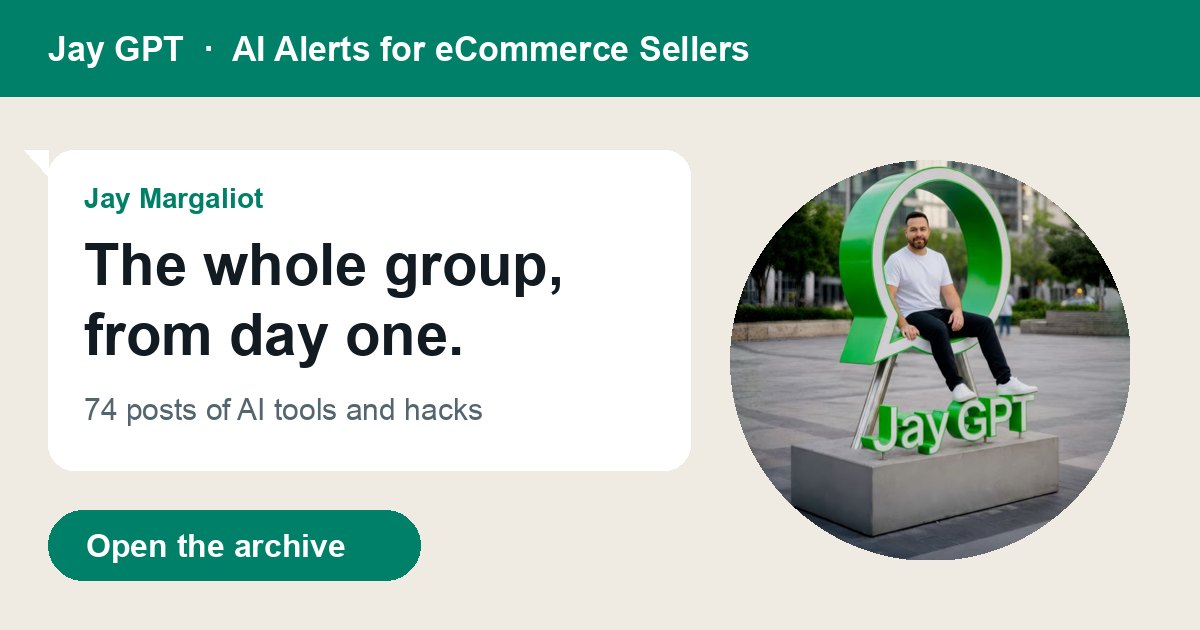
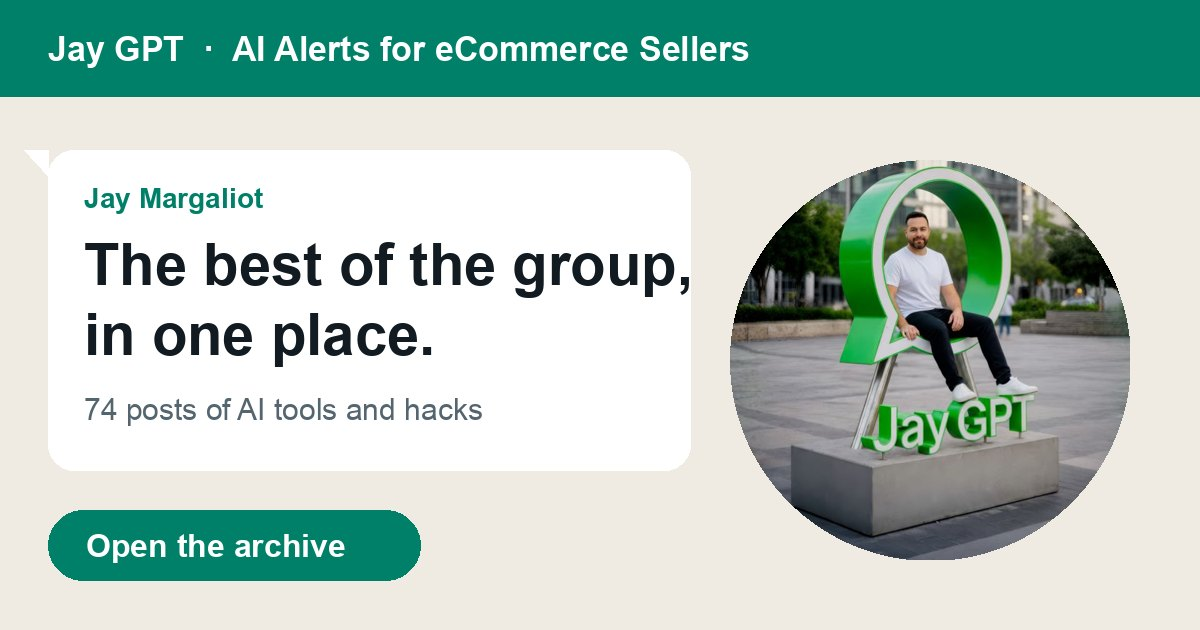
Archive: daily update from the Jay GPT #1 group

Changed region(s): [[0.1542, 0.3921, 0.5858, 0.4825], [0.0617, 0.4825, 0.4008, 0.6032]]

diff --git a/archive/index.html b/archive/index.html
@@ -7,10 +7,10 @@
 <meta name="theme-color" content="#008069" media="(prefers-color-scheme: light)">
 <meta name="theme-color" content="#202c33" media="(prefers-color-scheme: dark)">
 <title>Jay GPT Archive</title>
-<meta name="description" content="Every AI tool and hack shared in the Jay GPT groups, from day one.">
+<meta name="description" content="The best AI tools and hacks from the Jay GPT WhatsApp group, since January 2026.">
 <meta property="og:type" content="website">
-<meta property="og:title" content="Jay GPT · The whole group, from day one">
-<meta property="og:description" content="Every AI tool and hack shared in the Jay GPT WhatsApp groups. Search it, react, and join the group.">
+<meta property="og:title" content="Jay GPT · The best of the group, in one place">
+<meta property="og:description" content="The best AI tools and hacks from the Jay GPT WhatsApp group. Search it, react, and join the group.">
 <meta property="og:image" content="https://jaygptpro.com/archive/assets/og.jpg">
 <meta property="og:image:width" content="1200">
 <meta property="og:image:height" content="630">
@@ -120,8 +120,10 @@ main { max-width: 860px; margin: 0 auto; padding: 6px 12px 96px; }
 .system > div { background: var(--sys); color: var(--sys-ink); font-size: 12.8px; padding: 8px 14px; border-radius: 8px; box-shadow: var(--shadow); text-align: center; max-width: 540px; line-height: 1.45; }
 .unread { scroll-margin-top: calc(var(--bar-h, 150px) + 8px); display: flex; justify-content: center; margin: 14px -12px; background: rgb(0 0 0 / .05); padding: 6px 0; }
 .unread span { background: var(--unread); color: var(--name); font-size: 12.5px; font-weight: 600; padding: 5px 14px; border-radius: 999px; box-shadow: var(--shadow); text-transform: uppercase; }
-.msg { display: flex; align-items: flex-start; min-height: 72px; margin: 3px 0 2px; scroll-margin-top: 170px; }
-.msg.has-react { margin-bottom: 20px; }
+.msg { display: flex; margin: 3px 0 2px; scroll-margin-top: 170px; }
+.stack { display: flex; flex-direction: column; align-items: flex-end; max-width: min(560px, 88%); }
+.stack .bubble { max-width: 100%; }
+.msg.has-react .share-cta { margin-top: 22px; }
 .msg.is-hidden .bubble { opacity: .45; outline: 2px dashed #e34948; }
 .bubble { position: relative; background: var(--bubble); border-radius: 8px; border-top-left-radius: 0; box-shadow: var(--shadow); max-width: min(560px, 88%); padding: 4px; }
 .bubble::before { content: ""; position: absolute; left: -8px; top: 0; width: 8px; height: 13px; background: var(--bubble); clip-path: polygon(100% 0, 0 0, 100% 100%); }
@@ -153,11 +155,13 @@ main { max-width: 860px; margin: 0 auto; padding: 6px 12px 96px; }
 .reacts { position: absolute; left: 10px; bottom: -16px; display: flex; align-items: center; gap: 1px; background: var(--bubble); border-radius: 999px; padding: 1px 7px 1px 5px; font-size: 13px; box-shadow: 0 1px 3px rgb(11 20 26 / .2); border: 1px solid var(--wall); cursor: pointer; }
 .reacts.mine { background: var(--mine); }
 .reacts b { font-size: 11.5px; font-weight: 500; color: var(--sub); margin-left: 3px; }
-.react-btn, .fwd-btn { position: absolute; right: -40px; top: calc(50% - 17px); transform: translateY(-50%); width: 30px; height: 30px; border-radius: 50%; border: 0; background: rgb(0 0 0 / .12); color: #fff; font-size: 15px; cursor: pointer; opacity: 0; transition: opacity .15s; }
-.fwd-btn { top: calc(50% + 17px); display: grid; place-items: center; padding: 0; }
-.fwd-btn svg { width: 16px; height: 16px; }
-.msg:hover .react-btn, .react-btn:focus-visible, .msg:hover .fwd-btn, .fwd-btn:focus-visible { opacity: 1; }
-@media (hover: none) { .react-btn, .fwd-btn { opacity: .85; } }
+.react-btn { position: absolute; right: -40px; top: 50%; transform: translateY(-50%); width: 30px; height: 30px; border-radius: 50%; border: 0; background: rgb(0 0 0 / .12); color: #fff; font-size: 15px; cursor: pointer; opacity: 0; transition: opacity .15s; }
+.msg:hover .react-btn, .react-btn:focus-visible { opacity: 1; }
+@media (hover: none) { .react-btn { opacity: .85; } }
+/* not WhatsApp on purpose (Jay, 6.11.2026): passing a tip to a friend is what grows the group, so it has to catch the eye */
+.share-cta { display: inline-flex; align-items: center; gap: 6px; margin: 6px 0 10px; padding: 7px 14px; border: 0; border-radius: 999px; background: var(--green); color: var(--green-ink); font-size: 13.5px; font-weight: 600; cursor: pointer; box-shadow: var(--shadow); }
+.share-cta svg { width: 15px; height: 15px; }
+.share-cta:hover { filter: brightness(1.06); }
 mark { background: var(--mark); color: inherit; border-radius: 2px; }
 
 /* emoji picker and the per-message menu */
@@ -224,7 +228,7 @@ mark { background: var(--mark); color: inherit; border-radius: 2px; }
 .lightbox img { max-width: 96vw; max-height: 92vh; }
 .toast { position: fixed; left: 50%; bottom: calc(84px + env(safe-area-inset-bottom)); transform: translateX(-50%); z-index: 80; background: #111b21; color: #fff; padding: 9px 16px; border-radius: 8px; font-size: 14px; opacity: 0; transition: opacity .2s; pointer-events: none; }
 .toast.show { opacity: 1; }
-@media (min-width: 700px) { .bubble { max-width: 65%; } }
+@media (min-width: 700px) { .stack { max-width: 65%; } }
 @media (prefers-reduced-motion: reduce) { .msg.flash .bubble, .info .panel { animation: none; } .pop button { transition: none; } }
 </style>
 </head>
@@ -445,8 +449,8 @@ function menu(p, anchor) {
     ["React", () => picker(p, anchor)],
     [stars.has(p.id) ? "Unstar" : "Star", () => { closePops(); stars.has(p.id) ? stars.delete(p.id) : stars.add(p.id); store.set("stars", [...stars]); toast(stars.has(p.id) ? "Starred" : "Unstarred");
       if (state.topic === "⭐ Starred") render(); else { refresh(p); renderChips(); } }],
-    ["Copy link", async () => { closePops(); try { await navigator.clipboard.writeText(postUrl(p)); toast("Link copied"); } catch { location.hash = "m" + p.id; } }],
-    ["Share", () => { closePops(); shareUrl(postUrl(p), firstLine(p)); }],
+    ["Copy link", async () => { closePops(); try { await navigator.clipboard.writeText(postUrl(p)); toast("Link copied"); track("share", { what: "post", how: "copy", post: p.id, where: "menu" }); } catch { location.hash = "m" + p.id; } }],
+    ["Share", () => { closePops(); shareUrl(postUrl(p), firstLine(p), { post: p.id, where: "menu" }); }],
   ];
   if (ADMIN) {
     const hidden = isHidden(p);
@@ -463,10 +467,10 @@ function menu(p, anchor) {
 }
 
 const waLink = text => CONFIG.phone ? `https://wa.me/${CONFIG.phone}?text=${encodeURIComponent(text)}` : CONFIG.joinUrl;
-async function shareUrl(url, text) {
+async function shareUrl(url, text, extra = {}) {
   const what = url.includes("#m") ? "post" : "archive";
-  if (navigator.share) { try { await navigator.share({ title: "Jay GPT", text, url }); track("share", { what, how: "sheet" }); } catch {} return; }
-  try { await navigator.clipboard.writeText(url); toast("Link copied"); track("share", { what, how: "copy" }); } catch {}
+  if (navigator.share) { try { await navigator.share({ title: "Jay GPT", text, url }); track("share", { what, how: "sheet", ...extra }); } catch {} return; }
+  try { await navigator.clipboard.writeText(url); toast("Link copied. Paste it to a friend."); track("share", { what, how: "copy", ...extra }); } catch {}
 }
 
 function message(p) {
@@ -503,11 +507,10 @@ function message(p) {
     bubble.append(el("button", { class: "reacts" + (mine[p.id] ? " mine" : ""), "aria-label": `${total} reactions, add yours`, onclick: e => picker(p, e.currentTarget) }, ...top, total > 1 ? el("b", {}, String(total)) : null));
   }
   bubble.append(el("button", { class: "react-btn", "aria-label": "React", onclick: e => picker(p, e.currentTarget) }, "☺"));
-  // WhatsApp's forward arrow: sends a link straight to this post, the way readers pass a tip to a friend
-  const fwd = el("button", { class: "fwd-btn", "aria-label": "Share this post", title: "Share this post", onclick: () => shareUrl(postUrl(p), firstLine(p)) });
-  fwd.innerHTML = '<svg viewBox="0 0 24 24" fill="currentColor" aria-hidden="true"><path d="M14 5v4C7 10 4 15 3 20c2.5-3.5 6-5.1 11-5.1V19l7-7-7-7z"/></svg>';
-  bubble.append(fwd);
-  return el("div", { class: "msg" + (total ? " has-react" : "") + (isHidden(p) ? " is-hidden" : ""), id: "m" + p.id }, bubble);
+  // a link straight to this post, the way readers pass a tip to a friend
+  const cta = el("button", { class: "share-cta", onclick: () => shareUrl(postUrl(p), firstLine(p), { post: p.id, where: "post-button" }) }, "Share with a friend");
+  cta.insertAdjacentHTML("afterbegin", '<svg viewBox="0 0 24 24" fill="currentColor" aria-hidden="true"><path d="M14 5v4C7 10 4 15 3 20c2.5-3.5 6-5.1 11-5.1V19l7-7-7-7z"/></svg>');
+  return el("div", { class: "msg" + (total ? " has-react" : "") + (isHidden(p) ? " is-hidden" : ""), id: "m" + p.id }, el("div", { class: "stack" }, bubble, cta));
 }
 function refresh(p) {
   const old = document.getElementById("m" + p.id);
@@ -591,13 +594,15 @@ document.getElementById("donna-link").href = tagged(CONFIG.donnaUrl, "group-info
 document.getElementById("wonka-link").href = tagged(CONFIG.wonkaUrl, "group-info");
 document.getElementById("donna-link").addEventListener("click", () => track("product_click", { product: "donna", where: "group-info" }));
 document.getElementById("wonka-link").addEventListener("click", () => track("product_click", { product: "wonka", where: "group-info" }));
-document.getElementById("share").addEventListener("click", () => shareUrl(location.origin + location.pathname, "Every AI tool and hack from the Jay GPT group"));
+document.getElementById("share").addEventListener("click", () => shareUrl(location.origin + location.pathname, "The best AI tools and hacks from the Jay GPT group"));
 document.getElementById("members").textContent = CONFIG.members ? `Group · ${CONFIG.members.toLocaleString("en-US")} members` : "Group";
 // the EmailOctopus form, embedded the way EmailOctopus gives it (it carries its own spam check)
 if (CONFIG.newsletterForm) {
   const box = document.getElementById("eo-form");
   box.append(el("script", { async: true, src: `https://eocampaign1.com/form/${CONFIG.newsletterForm}.js`, "data-form": CONFIG.newsletterForm }));
-  box.addEventListener("submit", () => { store.set("subscribed", true); track("newsletter_signup", { where: "group-info" }); }, true);
+  // a click on Subscribe is only an attempt; EmailOctopus fires form.success once its server took the address
+  box.addEventListener("submit", () => track("newsletter_submit", { where: "group-info" }), true);
+  document.addEventListener("emailoctopus:form.success", () => { store.set("subscribed", true); track("newsletter_signup", { where: "group-info" }); });
 } else {
   document.getElementById("news").remove();
 }

diff --git a/archive/g1/index.html b/archive/g1/index.html
@@ -1,0 +1,15 @@
+<!doctype html>
+<html lang="en"><head><meta charset="utf-8">
+<meta name="robots" content="noindex, nofollow">
+<title>Jay GPT Archive</title>
+<meta property="og:type" content="website">
+<meta property="og:title" content="Jay GPT · The best of the group, in one place">
+<meta property="og:description" content="The best AI tools and hacks from the Jay GPT WhatsApp group. Search it, react, and join the group.">
+<meta property="og:image" content="https://jaygptpro.com/archive/assets/og.jpg">
+<meta property="og:image:width" content="1200">
+<meta property="og:image:height" content="630">
+<meta property="og:url" content="https://jaygptpro.com/archive/">
+<meta name="twitter:card" content="summary_large_image">
+<meta http-equiv="refresh" content="0; url=https://jaygptpro.com/archive/?utm_source=whatsapp&utm_medium=group_description&utm_campaign=archive&utm_content=group1">
+<script>location.replace("https://jaygptpro.com/archive/?utm_source=whatsapp&utm_medium=group_description&utm_campaign=archive&utm_content=group1" + location.hash)</script>
+</head><body><a href="https://jaygptpro.com/archive/?utm_source=whatsapp&utm_medium=group_description&utm_campaign=archive&utm_content=group1">Open the Jay GPT archive</a></body></html>

diff --git a/archive/g2/index.html b/archive/g2/index.html
@@ -1,0 +1,15 @@
+<!doctype html>
+<html lang="en"><head><meta charset="utf-8">
+<meta name="robots" content="noindex, nofollow">
+<title>Jay GPT Archive</title>
+<meta property="og:type" content="website">
+<meta property="og:title" content="Jay GPT · The best of the group, in one place">
+<meta property="og:description" content="The best AI tools and hacks from the Jay GPT WhatsApp group. Search it, react, and join the group.">
+<meta property="og:image" content="https://jaygptpro.com/archive/assets/og.jpg">
+<meta property="og:image:width" content="1200">
+<meta property="og:image:height" content="630">
+<meta property="og:url" content="https://jaygptpro.com/archive/">
+<meta name="twitter:card" content="summary_large_image">
+<meta http-equiv="refresh" content="0; url=https://jaygptpro.com/archive/?utm_source=whatsapp&utm_medium=group_description&utm_campaign=archive&utm_content=group2">
+<script>location.replace("https://jaygptpro.com/archive/?utm_source=whatsapp&utm_medium=group_description&utm_campaign=archive&utm_content=group2" + location.hash)</script>
+</head><body><a href="https://jaygptpro.com/archive/?utm_source=whatsapp&utm_medium=group_description&utm_campaign=archive&utm_content=group2">Open the Jay GPT archive</a></body></html>

diff --git a/archive/g3/index.html b/archive/g3/index.html
@@ -1,0 +1,15 @@
+<!doctype html>
+<html lang="en"><head><meta charset="utf-8">
+<meta name="robots" content="noindex, nofollow">
+<title>Jay GPT Archive</title>
+<meta property="og:type" content="website">
+<meta property="og:title" content="Jay GPT · The best of the group, in one place">
+<meta property="og:description" content="The best AI tools and hacks from the Jay GPT WhatsApp group. Search it, react, and join the group.">
+<meta property="og:image" content="https://jaygptpro.com/archive/assets/og.jpg">
+<meta property="og:image:width" content="1200">
+<meta property="og:image:height" content="630">
+<meta property="og:url" content="https://jaygptpro.com/archive/">
+<meta name="twitter:card" content="summary_large_image">
+<meta http-equiv="refresh" content="0; url=https://jaygptpro.com/archive/?utm_source=whatsapp&utm_medium=group_description&utm_campaign=archive&utm_content=group3">
+<script>location.replace("https://jaygptpro.com/archive/?utm_source=whatsapp&utm_medium=group_description&utm_campaign=archive&utm_content=group3" + location.hash)</script>
+</head><body><a href="https://jaygptpro.com/archive/?utm_source=whatsapp&utm_medium=group_description&utm_campaign=archive&utm_content=group3">Open the Jay GPT archive</a></body></html>

diff --git a/archive/a/index.html b/archive/a/index.html
@@ -1,0 +1,15 @@
+<!doctype html>
+<html lang="en"><head><meta charset="utf-8">
+<meta name="robots" content="noindex, nofollow">
+<title>Jay GPT Archive</title>
+<meta property="og:type" content="website">
+<meta property="og:title" content="Jay GPT · The best of the group, in one place">
+<meta property="og:description" content="The best AI tools and hacks from the Jay GPT WhatsApp group. Search it, react, and join the group.">
+<meta property="og:image" content="https://jaygptpro.com/archive/assets/og.jpg">
+<meta property="og:image:width" content="1200">
+<meta property="og:image:height" content="630">
+<meta property="og:url" content="https://jaygptpro.com/archive/">
+<meta name="twitter:card" content="summary_large_image">
+<meta http-equiv="refresh" content="0; url=https://jaygptpro.com/archive/?utm_source=whatsapp&utm_medium=announcement&utm_campaign=archive_launch">
+<script>location.replace("https://jaygptpro.com/archive/?utm_source=whatsapp&utm_medium=announcement&utm_campaign=archive_launch" + location.hash)</script>
+</head><body><a href="https://jaygptpro.com/archive/?utm_source=whatsapp&utm_medium=announcement&utm_campaign=archive_launch">Open the Jay GPT archive</a></body></html>

diff --git a/archive/n/index.html b/archive/n/index.html
@@ -1,0 +1,15 @@
+<!doctype html>
+<html lang="en"><head><meta charset="utf-8">
+<meta name="robots" content="noindex, nofollow">
+<title>Jay GPT Archive</title>
+<meta property="og:type" content="website">
+<meta property="og:title" content="Jay GPT · The best of the group, in one place">
+<meta property="og:description" content="The best AI tools and hacks from the Jay GPT WhatsApp group. Search it, react, and join the group.">
+<meta property="og:image" content="https://jaygptpro.com/archive/assets/og.jpg">
+<meta property="og:image:width" content="1200">
+<meta property="og:image:height" content="630">
+<meta property="og:url" content="https://jaygptpro.com/archive/">
+<meta name="twitter:card" content="summary_large_image">
+<meta http-equiv="refresh" content="0; url=https://jaygptpro.com/archive/?utm_source=newsletter&utm_medium=email&utm_campaign=archive_launch">
+<script>location.replace("https://jaygptpro.com/archive/?utm_source=newsletter&utm_medium=email&utm_campaign=archive_launch" + location.hash)</script>
+</head><body><a href="https://jaygptpro.com/archive/?utm_source=newsletter&utm_medium=email&utm_campaign=archive_launch">Open the Jay GPT archive</a></body></html>

diff --git a/archive/in/index.html b/archive/in/index.html
@@ -1,0 +1,15 @@
+<!doctype html>
+<html lang="en"><head><meta charset="utf-8">
+<meta name="robots" content="noindex, nofollow">
+<title>Jay GPT Archive</title>
+<meta property="og:type" content="website">
+<meta property="og:title" content="Jay GPT · The best of the group, in one place">
+<meta property="og:description" content="The best AI tools and hacks from the Jay GPT WhatsApp group. Search it, react, and join the group.">
+<meta property="og:image" content="https://jaygptpro.com/archive/assets/og.jpg">
+<meta property="og:image:width" content="1200">
+<meta property="og:image:height" content="630">
+<meta property="og:url" content="https://jaygptpro.com/archive/">
+<meta name="twitter:card" content="summary_large_image">
+<meta http-equiv="refresh" content="0; url=https://jaygptpro.com/archive/?utm_source=linkedin&utm_medium=social&utm_campaign=archive_launch">
+<script>location.replace("https://jaygptpro.com/archive/?utm_source=linkedin&utm_medium=social&utm_campaign=archive_launch" + location.hash)</script>
+</head><body><a href="https://jaygptpro.com/archive/?utm_source=linkedin&utm_medium=social&utm_campaign=archive_launch">Open the Jay GPT archive</a></body></html>

diff --git a/archive/w/index.html b/archive/w/index.html
@@ -1,0 +1,15 @@
+<!doctype html>
+<html lang="en"><head><meta charset="utf-8">
+<meta name="robots" content="noindex, nofollow">
+<title>Jay GPT Archive</title>
+<meta property="og:type" content="website">
+<meta property="og:title" content="Jay GPT · The best of the group, in one place">
+<meta property="og:description" content="The best AI tools and hacks from the Jay GPT WhatsApp group. Search it, react, and join the group.">
+<meta property="og:image" content="https://jaygptpro.com/archive/assets/og.jpg">
+<meta property="og:image:width" content="1200">
+<meta property="og:image:height" content="630">
+<meta property="og:url" content="https://jaygptpro.com/archive/">
+<meta name="twitter:card" content="summary_large_image">
+<meta http-equiv="refresh" content="0; url=https://jaygptpro.com/archive/?utm_source=whatsapp&utm_medium=welcome_dm&utm_campaign=archive">
+<script>location.replace("https://jaygptpro.com/archive/?utm_source=whatsapp&utm_medium=welcome_dm&utm_campaign=archive" + location.hash)</script>
+</head><body><a href="https://jaygptpro.com/archive/?utm_source=whatsapp&utm_medium=welcome_dm&utm_campaign=archive">Open the Jay GPT archive</a></body></html>
